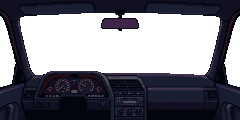
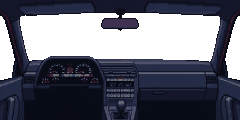
Alfa Romeo 164: interno, volante, vano con fiammiferi, auto parcheggiata

diff --git a/index.html b/index.html
@@ -429,7 +429,7 @@ function fpine(x,by,h,pal,seed,k=g){
 }
 /* ===== immagini generate (Gemini) e ridotte: interno auto, volante, abeti ===== */
 const IMGS=[];const mkImg=p=>{const i=new Image();IMGS.push(new Promise(r=>{i.addEventListener('load',r);i.addEventListener('error',r)}));i.src=p;return i};
-const IMG_CAR=mkImg('img/emb/img_car.png'),IMG_WHEEL=mkImg('img/emb/img_wheel.png');
+const IMG_CAR=mkImg('img/emb/img_car.png'),IMG_WHEEL=mkImg('img/emb/img_wheel.png'),IMG_GLOVE=mkImg('img/emb/img_glove.png'),IMG_GLOVE0=mkImg('img/emb/img_glove0.png');
 const IMG_PROT=mkImg('img/emb/img_prot.png');   // protagonista con cappello e impermeabile: 5 pose (ferma + 4 passi), 16x32 ciascuna
 const IMG_WALK12=mkImg('img/emb/img_walk12.png');   // camminata realistica a 12 pose 32x56; il libro e' sotto il braccio e spunta solo dietro la schiena
 const IMG_WALK8=mkImg('img/emb/img_walk8.png');   // camminata a 8 fotogrammi 28x56 (ciclo: contatto, discesa, passaggio, salita, ripetuto per l'altra gamba)
@@ -500,7 +500,7 @@ const WH=dist(31)+.8,CK=3.2,KX=26;
 const curv=w=>sm((WH-6-w)/10)*CK*(Math.sin(w*.3)+.6*Math.sin(w*.13+2.1)+.25*Math.sin(w*.71));
 let CAB=null;
 
-const GLOVE_MATCH={x:167,y:87,w:17,h:19};
+const GLOVE_MATCH={x:161,y:80,w:21,h:19};
 const drive={T:0,fired:{},cap:0,
   enter(){this.makeCab();this.T=0;this.fired={};this.cap=0;this.leaving=false;this.gT=0;this.gOpen=0;this.gTaken=false;this.gDone=false;this.gHint=0;say('');setRain(.2,false);setEng(1,true);musicStart('drive',5);document.getElementById('bHint').style.display='none'},
   update(dt){this.T+=dt;const T=this.T;
@@ -617,9 +617,9 @@ const drive={T:0,fired:{},cap:0,
     this.gloveBox(T);
     this.gauges(T);this.radio(T);
     const steer=clamp(curv(D+1.2)*.5,-1,1)*.7+.03*Math.sin(T*3);
-    if(IMG_WHEEL.complete&&IMG_WHEEL.naturalWidth){const hw=IMG_WHEEL.naturalWidth,hh=IMG_WHEEL.naturalHeight;
-      g.save();g.translate(76,94);g.rotate(steer*.55);const wx0=-Math.round(hw/2),wy0=-Math.round(hh*.45);g.drawImage(IMG_WHEEL,wx0,wy0);
-      g.drawImage(IMG_WHEEL,0,hh-1,hw,1,wx0,wy0+hh,hw,70);   // le maniche continuano verso il basso: niente tagli in curva
+    if(IMG_WHEEL.complete&&IMG_WHEEL.naturalWidth){const hw=IMG_WHEEL.naturalWidth,hh=IMG_WHEEL.naturalHeight,ws=.76,dw=Math.round(hw*ws),dh=Math.round(hh*ws);
+      g.save();g.translate(70,96);g.rotate(steer*.55);const wx0=-Math.round(dw/2),wy0=-Math.round(dw/2);g.drawImage(IMG_WHEEL,wx0,wy0,dw,dh);
+      g.drawImage(IMG_WHEEL,0,hh-1,hw,1,wx0,wy0+dh,dw,70);   // la colonna continua verso il basso: niente tagli in curva
       g.restore()}
     if(fl>0){g.globalAlpha=fl*.12;R(0,0,W,wb,'#b4c4e4');g.globalAlpha=1}
     const a0=1-sm((T-1)/2.6);if(a0>0){g.globalAlpha=a0;R(0,0,W,H,'#000');g.globalAlpha=1}
@@ -644,28 +644,18 @@ const drive={T:0,fired:{},cap:0,
     g.globalCompositeOperation='source-over';g.globalAlpha=1},
   /* autoradio acceso sopra il cruscotto dipinto: display verde neon, frequenza 66.6 e barra del volume a rettangoli crescenti */
   radio(T){
-    const NEON='#4dff80',DIM='#17592e',x0=116,y0=95,w=26,h=11,fk=.9+.1*Math.sin(T*21);
-    for(let i=0;i<6;i++)ell(129,100,26-i*3,13-i*1.6,'#39ff6a',.035*fk);   // alone verde sulla plancia
+    const NEON='#4dff80',DIM='#17592e',x0=110,y0=82,w=22,h=8,fk=.9+.1*Math.sin(T*21);
+    for(let i=0;i<4;i++)ell(x0+11,y0+4,16-i*3,8-i*1.6,'#39ff6a',.03*fk);   // alone verde sulla plancia
     R(x0-1,y0-1,w+2,h+2,'#020a05');R(x0,y0,w,h,'#052410');
-    g.globalAlpha=.4*fk;txt('66.6',x0+1,y0,'#39ff6a');txt('66.6',x0+2,y0,'#39ff6a');txt('FM',x0+18,y0,'#39ff6a');g.globalAlpha=1;
-    txt('66.6',x0+1,y0+1,NEON);txt('FM',x0+18,y0+1,NEON);
-    for(let i=0;i<8;i++){const bh=1+Math.floor(i/2),on=i<6,bx=x0+2+i*3,by=y0+h-1-bh;
-      if(on){g.globalAlpha=.3*fk;R(bx-1,by-1,4,bh+2,'#39ff6a');g.globalAlpha=1}
-      R(bx,by,2,bh,on?NEON:DIM)}
+    g.globalAlpha=.4*fk;txt('66.6',x0+1,y0,'#39ff6a');g.globalAlpha=1;
+    txt('66.6',x0+2,y0+1,NEON);
   },
   gloveBox(T){
-    if(!this.gOpen||this.gDone&&!this.gOpen)return;
-    const k=sm((T-this.gOpen)/.5);
-    // cavita' scura con bordo, sportello abbassato, lucina calda
-    g.globalAlpha=k;
-    R(150,87,52,20,'#05060a');R(149,86,54,1,'#3a3e4a');R(149,86,1,22,'#2a2e38');R(202,86,1,22,'#2a2e38');
-    R(151,88,50,17,'#0e1016');R(151,88,50,1,'#1c202a');
-    const gl=.85+.15*Math.sin(T*9);
-    g.globalAlpha=1;for(let i=0;i<5;i++){disc(156,92,10-i*1.9,'#ffc870',k*(.05+.03*i)*gl)}
-    g.globalAlpha=k;R(154,89,5,2,'#fff4c8');R(155,90,3,1,'#ffe08a');
-    R(149,106,54,4,'#232733');R(149,106,54,1,'#4a5062');R(149,109,54,1,'#0a0b10');   // sportello abbassato
-    if(!this.gTaken){const mb=sprTex('matchbox_small');g.drawImage(mb,168,88,mb.width*.75,mb.height*.75);   // 3 pixel schermo per pixel dello sprite: entra nel vano
-      if((T>this.gOpen+1.2)&&Math.floor(T*2)%2===0){g.globalAlpha=.9;outline(GLOVE_MATCH,'#d8cfb0')}}
+    if(!this.gOpen)return;
+    const k=sm((T-this.gOpen)/.5),im=this.gTaken?IMG_GLOVE0:IMG_GLOVE;   // vano aperto (immagine dipinta), con o senza la scatola
+    if(!(im.complete&&im.naturalWidth))return;
+    g.globalAlpha=k;g.drawImage(im,0,0);
+    if(!this.gTaken&&(T>this.gOpen+1.2)&&Math.floor(T*2)%2===0){g.globalAlpha=.9;outline(GLOVE_MATCH,'#d8cfb0')}
     g.globalAlpha=1},
   /* strumenti animati sopra il cruscotto dipinto: lancette che seguono la velocita' e spie che lampeggiano */
   gauges(T){
@@ -673,16 +663,11 @@ const drive={T:0,fired:{},cap:0,
     const dial=(cx,cy,r,a,red)=>{disc(cx,cy,r+1,'#05070b');disc(cx,cy,r,'#0b0e14');
       for(let k=0;k<=10;k++){const an=(225-k*27)*Math.PI/180;R(cx+Math.cos(an)*(r-1.5),cy-Math.sin(an)*(r-1.5),1,1,(red&&k>=8)?'#d8402e':'#e0a850')}
       const an=a*Math.PI/180;line(cx,cy,cx+Math.cos(an)*(r-1.5),cy-Math.sin(an)*(r-1.5),'#ff9a3a');R(cx,cy,1,1,'#d8cfb0')};
-    dial(63,85,8,225-v*270,false);
-    dial(86,85,8,225-(v*.5+.05+.03*Math.sin(T*9))*270,true);
-    // spie
-    R(44,94,17,4,'#0b0c12');R(87,94,20,4,'#0b0c12');
+    dial(57,69,7.5,225-v*270,false);
+    dial(83,69,7.5,225-(v*.5+.05+.03*Math.sin(T*9))*270,true);
+    // le spie sono dipinte nell'immagine: una sola, quella degli indicatori di direzione, lampeggia
     const blink=(f,ph=0)=>Math.floor(T*f+ph)%2===0;
-    const turn=T>20?(blink(1.4)?1:.12):.12;
-    const L=[['#c8382e',T<2.5?1:.55],['#c8382e',T<2.5?1:.3],['#e0a040',blink(.7)?1:.2],['#58b868',turn],['#e0a040',T<2.5?1:.45]];
-    const Rr=[['#c8382e',blink(.9)?1:.3],['#e0a040',T<2.5?1:.5],['#e0a040',blink(1.6,.5)?.9:.25],['#58b868',turn],['#4a80e8',.8],['#c8382e',blink(.5)?.9:.25]];
-    L.forEach(([c,a],i)=>{g.globalAlpha=.25+.75*a;R(46+i*3,95,2,2,c)});
-    Rr.forEach(([c,a],i)=>{g.globalAlpha=.25+.75*a;R(89+i*3,95,2,2,c)});
+    if(T>20&&blink(1.4)){R(48,75,2,2,'#58b868');R(89,75,2,2,'#58b868')}
     g.globalAlpha=1;
   },
   dash(T,wb,fl){
@@ -1888,7 +1873,7 @@ document.addEventListener('wheel',e=>{if(e.ctrlKey)e.preventDefault()},{passive:
 document.addEventListener('visibilitychange',()=>{if(document.hidden){if(SILENT_EL)SILENT_EL.pause()}else if(AU.ctx)unmuteSilentSwitch();if(AU.ctx){if(document.hidden)AU.ctx.suspend();else AU.ctx.resume()}});
 
 /* aggiornamento automatico: se sul server c'e' una versione piu' nuova di questa, ricarica una volta (cancella anche le copie salvate) */
-const BUILD='7 nov 22:30';
+const BUILD='7 nov 23:00';
 {const ve=document.getElementById('ver');if(ve)ve.textContent='v. '+BUILD;
  if(location.protocol.startsWith('http')){
   fetch(location.pathname+'?nc='+Date.now(),{cache:'no-store'}).then(r=>r.ok?r.text():'').then(t=>{

diff --git a/sw.js b/sw.js
@@ -1,7 +1,7 @@
 // Service worker: il gioco funziona offline.
 // - i file del gioco (immagini, audio, icone) sono salvati alla prima apertura (sempre scaricati freschi: cache reload) e serviti dalla memoria del telefono;
 // - la pagina e questo file si chiedono prima alla rete (cosi' gli aggiornamenti arrivano subito) e, senza rete, si usa la copia salvata.
-const VERSION = "7 nov 22:30";
+const VERSION = "7 nov 23:00";
 const CACHE = "mistero-" + VERSION;
 const FILES = [
   "./",
@@ -47,6 +47,8 @@ const FILES = [
   "img/emb/img_dream_1.png",
   "img/emb/img_dream_2.png",
   "img/emb/img_dream_3.png",
+  "img/emb/img_glove.png",
+  "img/emb/img_glove0.png",
   "img/emb/img_log.png",
   "img/emb/img_pint.png",
   "img/emb/img_prot.png",
